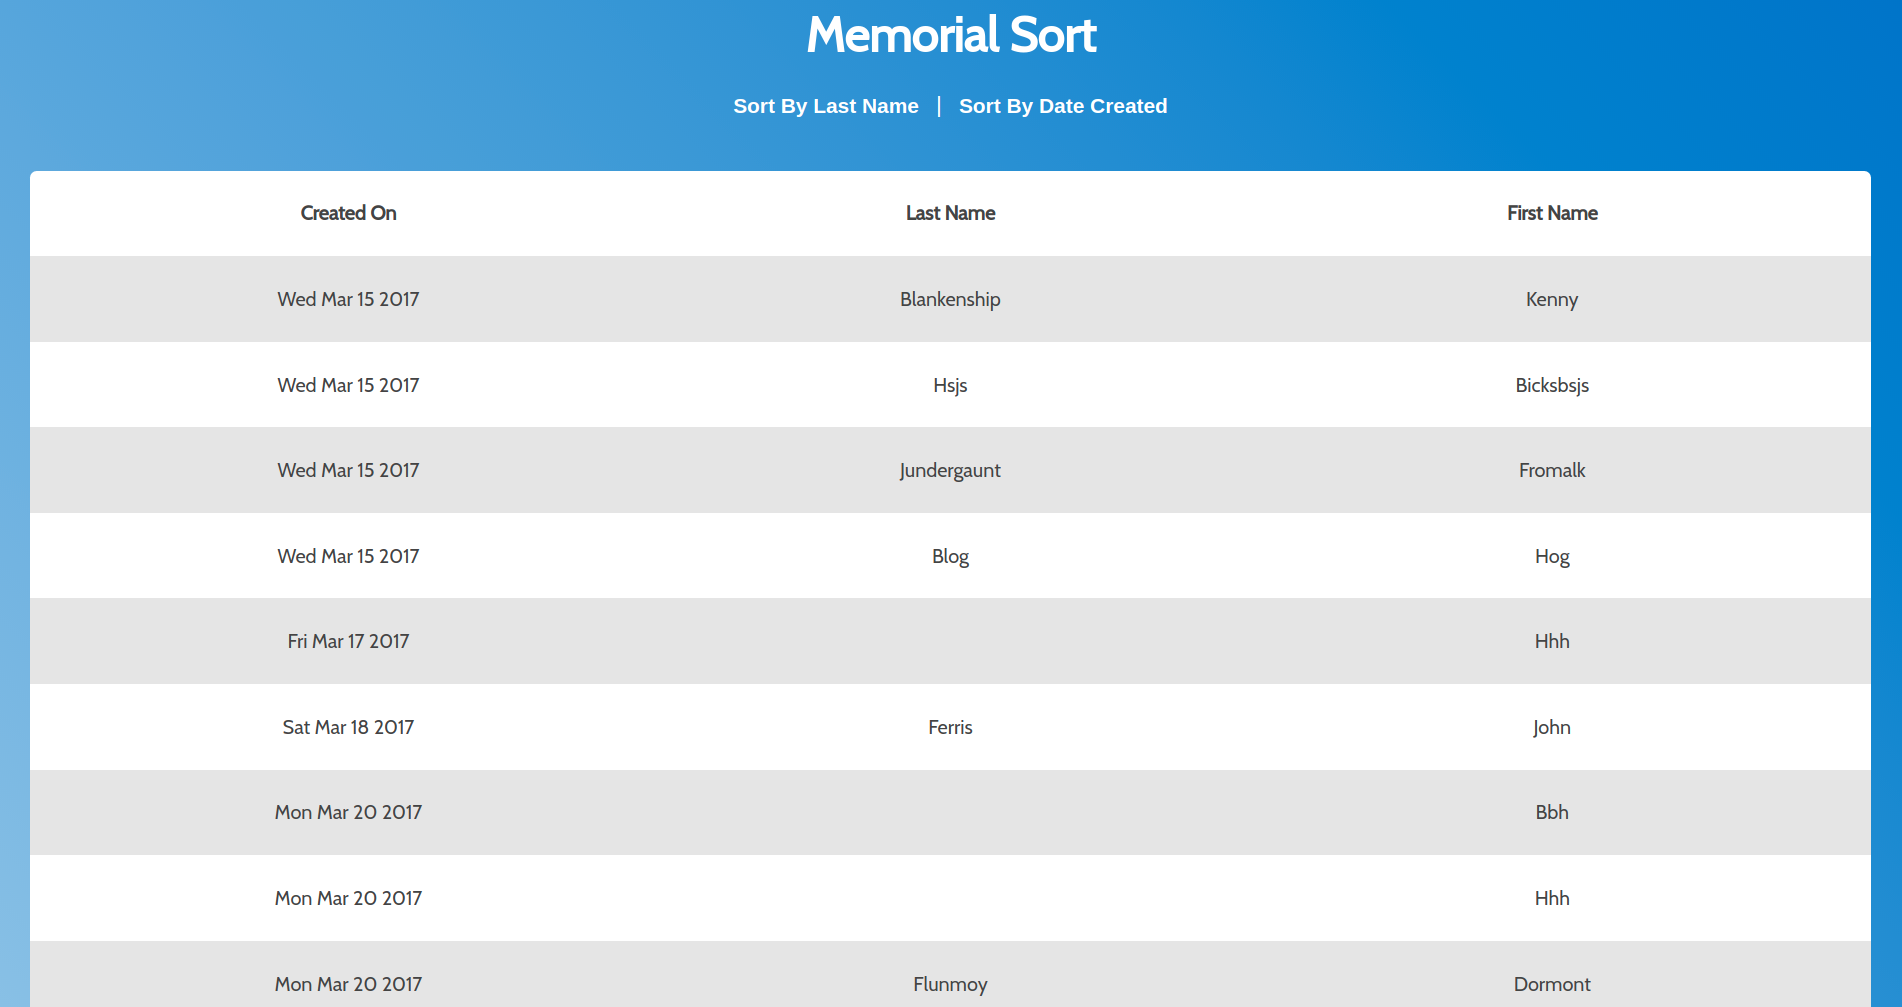
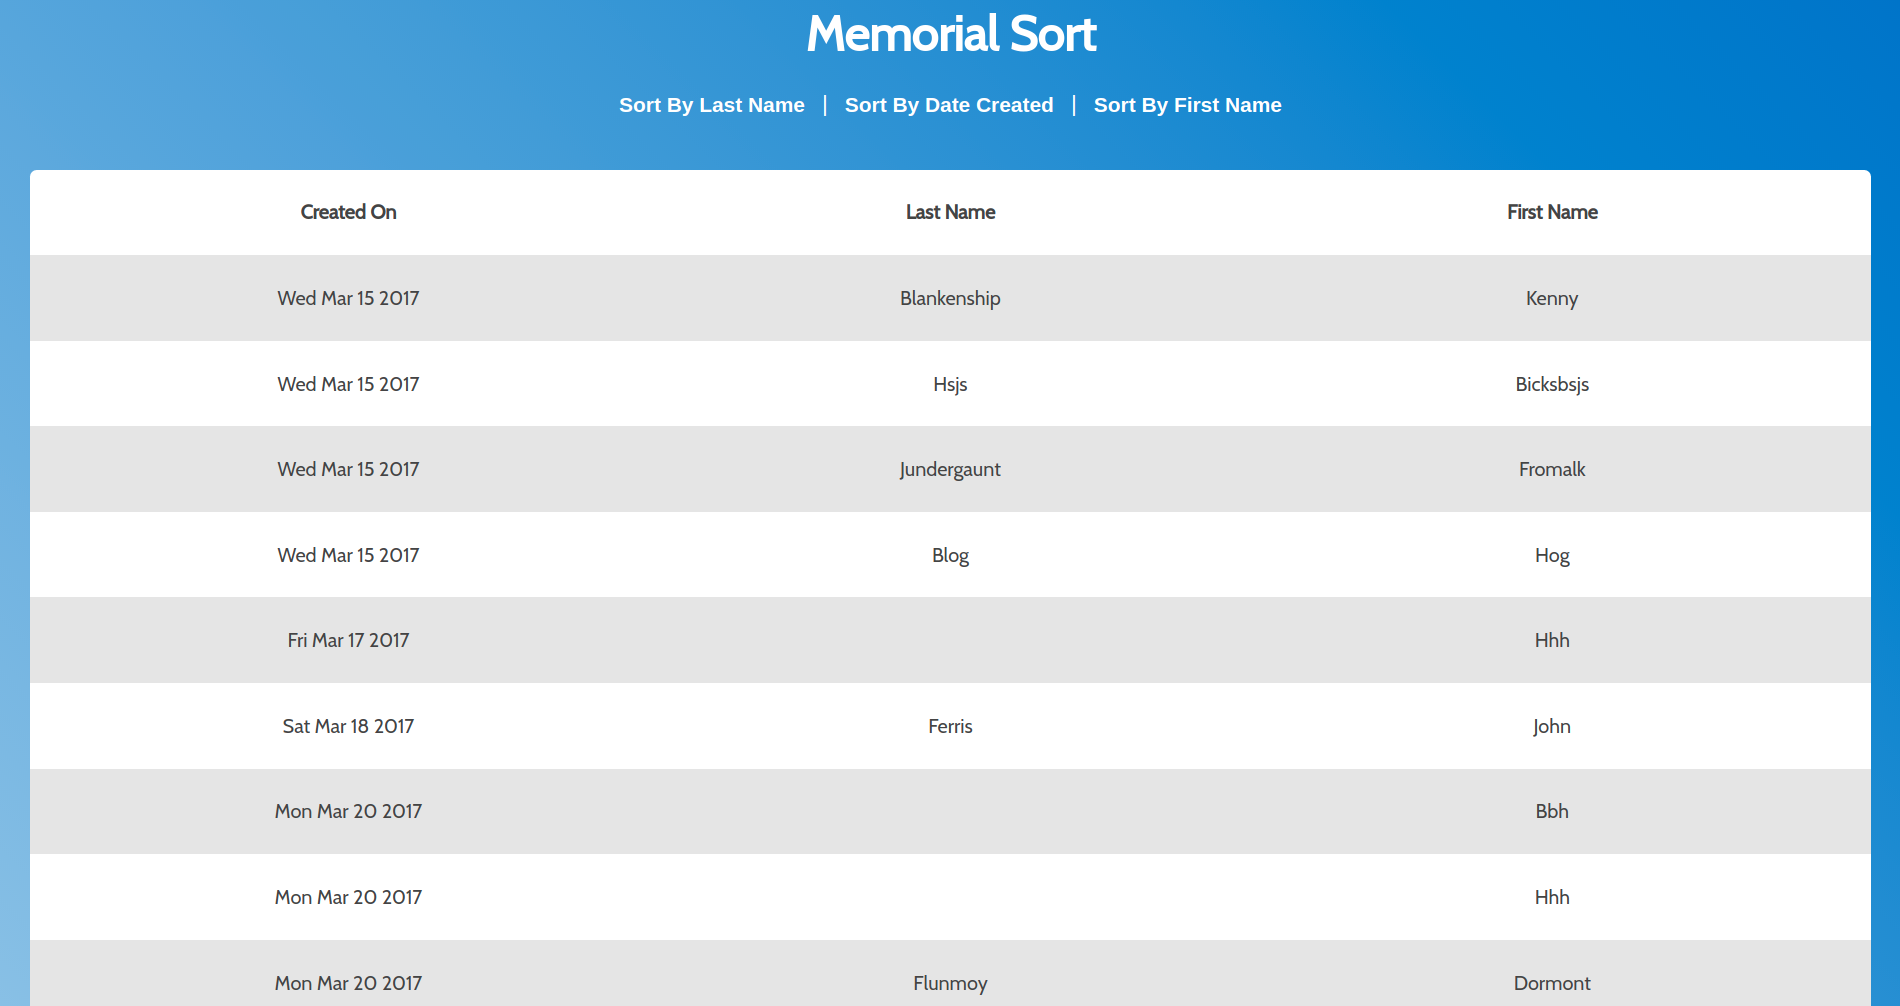
add sort by first name screenshots

diff --git a/README.md b/README.md
@@ -3,7 +3,7 @@ This project was bootstrapped with [Create React App](https://github.com/faceboo
 ## Running Memorial Sort and About Memorial Sort
 
 Memorial sort allows you to view 10 memorials which are default sorted by the date they were created.
-There are options to sort by last name as well if you're interested in that order.
+There are options to sort by last name or first name as well if you're interested in that order.
 
 The app is mobile responsive and the css was built with mobile first in mind, resize the screen and use the dev tools to view how the app will look on mobile and large/small screens.
 
